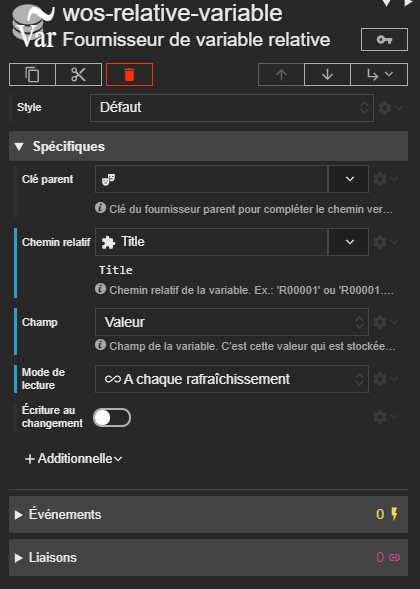
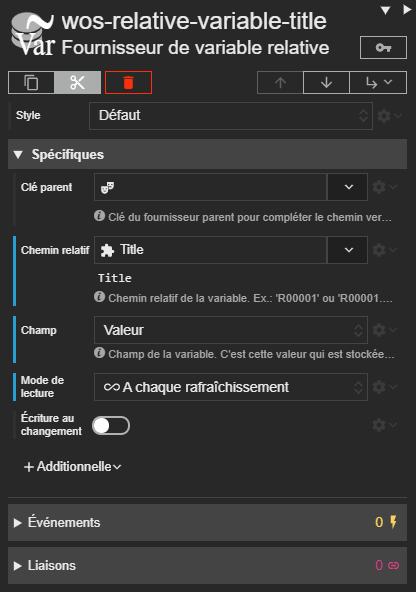
Correction tutoriel composite relatif

diff --git a/tutorials/composite-wos-relative.md b/tutorials/composite-wos-relative.md
@@ -3,64 +3,85 @@ title: "Composite avec son propre fournisseur relatif"
 parent: Tutoriels
 ---
 
-Ce tutoriel présente une scène qui inclue un [fournisseur de ressource](../concepts/actor-types/redy-resource-source.md) et un composite comportant le titre d'une ressource récupérée via un [fournisseur de variable relative](../concepts/actor-types/redy-wos-relative-variable-source.md).
+Nous verrons au cours de ce tutoriel comment fournir un acteur fournisseur de ressource à un acteur fournisseur de variable relative contenu dans un composite à l'aide du [contexte de donnée](../concepts/context.md).<br>
+Il est à noter que l'utilisation du contexte de donnée n'est qu'une des méthodes possibles pour parvenir à renseigner dynamiquement un acteur fournisseur de variable relative.
 
-Pour ce tutoriel, la scène comprend un fournisseur de ressource et le composite un fournisseur de variable relative qui se base sur le fournisseur de ressource de la scène.
+Les acteurs fournisseurs de variables relatives peuvent de cette façon être regroupés afin de rassembler les différentes requêtes.<br>
+Cette pratique permet également de renseigner à l'acteur fournisseur de variable relative une clé parent dynamiquement.
 
-Cela permet à des composites de bénéficier dynamiquement de fournisseur parents à l'aide du [contexte de donnée](../concepts/context.md).<br>
+Dans ce tutoriel, nous afficherons une scène qui comporte un composite et un acteur fournisseur de ressource.<br>
+Le composite utilise via son contexte de donnée l'acteur fournisseur de ressource de la scène afin d'alimenter ses propres fournisseurs de variables relatives.
 
 # Étape 1 : Le composite
 
-Le composite contient un acteur texte qui présente le titre de la ressource ainsi qu'un acteur fournisseur de variable relative qui sert à alimenter le contenu de mon acteur texte.
+Ci-dessous le composite fonctionnel utilisé pour ce tutoriel, plus de détails sur la création de celui-ci se trouvent dans la section *Détails du composite* ci-dessous.
 
-![SynApps]( {{ site.baseurl }}/assets/tutorials/composite-relative/tuto-composite9.PNG)<br>
+>{% raw %}
+>``` text
+>SYNAPPS-STUDIO-COMPOSITE|{"config":{"key":"composite-relative","name":"Composite fournisseur relatif"},"leadActor":{"type":"layout/stack","key":"stack-root-composite","children":[{"type":"redy/data-source/wos-relative-variable","key":"wos-relative-variable-title","properties":{"dataReadMode":"always","relativePath":"Title","fieldName":"value"}},{"type":"display/text","key":"my-first-text","properties":{"horizontalAlignment":"middle","content":"MON TEXTE"},"bindings":{"properties.content":"actor#wos-relative-variable-title@data"}},{"type":"redy/data-source/wos-relative-variable","key":"wos-relative-variable-class","properties":{"dataReadMode":"always","relativePath":"PTClass","fieldName":"value"}},{"type":"display/text","key":"my-second-text","properties":{"horizontalAlignment":"middle","content":"MON TEXTE"},"bindings":{"properties.content":"actor#wos-relative-variable-class@data"}}]}}
+>```
+>{% endraw %}
 <br>
-L'acteur fournisseur de variable relative ne possède pas de clé parent (nous verrons pourquoi à l'étape 4), il possède cependant un chemin relatif et un champ.<br>
-Dans notre cas, nous souhaitons simplement afficher le titre de la ressource.<br>
-Le chemin relatif est donc *Title* et le champ *Valeur*.<br>
-![SynApps]( {{ site.baseurl }}/assets/tutorials/composite-relative/tuto-composite2.PNG)
 
-# Étape 2 : La liaison à l'acteur texte
+## Details du composite
 
-Pour récupérer le titre de la ressource, il faut effectuer une liaison sur le contenu de l'acteur texte vers le fournisseur de variable relative.<br>
-![SynApps]( {{ site.baseurl }}/assets/tutorials/composite-relative/link-text.gif)<br>
+Le composite utilisé contient deux acteurs fournisseurs de variable relative et deux acteurs textes.<br>
 
-# Étape 3 : La scène
+![SynApps]( {{ site.baseurl }}/assets/tutorials/composite-relative/tuto-composite1.PNG)<br>
+
+### <b> Details des acteurs fournisseurs de variable relative </b>
+
+Les deux acteurs fournisseurs de variable relative ne possèdent pas de clé parent, nous allons utiliser le contexte de donnée afin de leur fournir un parent.
+Ceux-ci possèdent cependant un chemin relatif et un champ.
+<br>
+>📌 **REMARQUE**<br>
+>Le contexte de donnée peut être utilisé en ruissellement, nous pouvons ainsi fournir au composite un acteur fournisseur de ressource et celui-ci ruissèlera cet acteur vers tous ses enfants.<br><br>
+>Dans notre cas, les acteurs fournisseurs de variables relatives détecteront automatiquement la présence d'un acteur fournisseur de ressource dans leurs contexte de donnée et l'utiliseront comme clé parent.
+
+
+![SynApps]( {{ site.baseurl }}/assets/tutorials/composite-relative/tuto-composite6.PNG)<br>
+Fournisseur de variable relative chargé de récupérer le titre de la ressource
+
+![SynApps]( {{ site.baseurl }}/assets/tutorials/composite-relative/tuto-composite5.PNG)<br>
+Fournisseur de variable relative chargé de récupérer la classe de la ressource
+
+### <b>Details de l'acteur texte</b>
+
+![SynApps]( {{ site.baseurl }}/assets/tutorials/composite-relative/tuto-composite10.PNG)
+
+La seule particularité des acteurs textes de ce composite réside dans la liaison de leurs contenus vers la donnée de l'un des acteur fournisseur de variable relative, ce qui permet de récupérer la variable souhaitée dynamiquement.
+
+# Étape 2 : La scène
 
 La scène présente un acteur fournisseur de ressource ainsi qu'une instance du composite que nous avons créé précédemment.<br>
 ![SynApps]( {{ site.baseurl }}/assets/tutorials/composite-relative/tuto-composite8.PNG)<br>
 
-Le fournisseur de ressource de la scène va chercher une ressource présente sur le REDY peut importe la ressource.<br>
+Le fournisseur de ressource de la scène va chercher une des ressources présente sur le REDY.<br>
 ![SynApps]( {{ site.baseurl }}/assets/tutorials/composite-relative/tuto-composite3.PNG)<br>
 
-Cette scène présente donc un acteur fournisseur de ressource ainsi qu'un composite.
+Via son contexte de donnée, le composite va renseigner l'acteur fournisseur de ressource à ses acteurs relatifs comme vu dans les détails de l'étape 1.
 
-# Étape 4 : La liaison du contexte
+>![SynApps]( {{ site.baseurl }}/assets/tutorials/composite-relative/link-context.gif)<br>
+>Liaison du contexte de donnée.
 
-Comme expliqué en <b>Étape 1</b>, la clé parent du fournisseur de variable relative a été laissée vide et cela pour permettre de renseigner dynamiquement un acteur parent.<br>
-Pour se faire, nous allons utiliser le contexte de donnée du composite.<br>
-En effet, lorsque qu'un fournisseur de variable relative ne possède pas de clé parent, celui-ci va automatiquement chercher un acteur fournisseur de ressource / variable.
-
-Dans notre exemple, il suffit donc de lier le contexte de donnée du composite à l'acteur fournisseur dans la scène.<br>
-![SynApps]( {{ site.baseurl }}/assets/tutorials/composite-relative/link-context.gif)<br>
-
-A l'issue de cette étape, vous nous avons :
-
-- la liste des acteurs de la scène :<br>
-![SynApps]( {{ site.baseurl }}/assets/tutorials/composite-relative/tuto-composite4.PNG)<br>
-> Notons la liaison sur l'acteur 'composite-relative' qui traduit la liaison vers l'acteur 'resource' sur le contexte de donnée.
-
-- la liste des acteurs du composite :<br>
-![SynApps]( {{ site.baseurl }}/assets/tutorials/composite-relative/tuto-composite1.PNG)<br>
-> Notons la liaison sur l'acteur 'my-text' qui représente la liaison pour aller chercher le titre de la ressource.
+A l'issue de cette étape, notre scène devrait afficher le titre et la classe de la ressource récupérée par notre fournisseur de ressource.<br>
+>![SynApps]( {{ site.baseurl }}/assets/tutorials/composite-relative/tuto-composite11.PNG)<br>
+> Exemple d'une scène affichant le titre et la classe d'une ressource.
 
 # Conclusion
 
-Nous avons appris à fournir un acteur fournisseur de ressource à un composite via son contexte de donnée.<br>
-Cela permet donc d'alléger les scènes et de factoriser l'utilisation des fournisseurs relatifs au sein des composites.
+A l'issue de ce tutoriel, nous devrions avoir :
+
+- Une scène composée d'un acteur fournisseur de ressource et d'un composite :<br>
+![SynApps]( {{ site.baseurl }}/assets/tutorials/composite-relative/tuto-composite4.PNG)<br>
+
+- Un composite composé de deux acteurs fournisseurs de variables relatives et de deux acteurs textes :<br>
+![SynApps]( {{ site.baseurl }}/assets/tutorials/composite-relative/tuto-composite1.PNG)<br>
+
+Au cours de ce tutoriel, nous avons appris à fournir à un composite un certain contexte de donnée et à valoriser ce contexte de donnée pour l'utilisation d'acteurs fournisseurs de variables relatives.<br>
 
 > 📌 **REMARQUE**<br>
-Il est tout à fait possible, d'agir sur la variable récupérée tout comme si le fournisseur de variable relative était dans la scène ( écriture, tranformation, etc...).
+Il est tout à fait possible, d'agir sur la variable récupérée (écriture, transformation, etc ...) par le fournisseur de variable relative.
 
 # Scène et composite du tutoriel
 
@@ -68,7 +89,7 @@ Vous pouvez copier/coller le composite réalisé dans ce tutoriel.
 
 >{% raw %}
 >``` text
->SYNAPPS-STUDIO-COMPOSITE|{"config":{"key":"composite-relative","name":"Composite fournisseur relatif"},"leadActor":{"type":"layout/stack","key":"stack-root-composite","children":[{"type":"redy/data-source/wos-relative-variable","key":"wos-relative-variable","properties":{"dataReadMode":"always","relativePath":"Title","fieldName":"value"}},{"type":"display/text","key":"my-text","properties":{"horizontalAlignment":"middle","content":"MON TEXTE"},"bindings":{"properties.content":"actor#wos-relative-variable@data"}}]}}
+>SYNAPPS-STUDIO-COMPOSITE|{"config":{"key":"composite-relative","name":"Composite fournisseur relatif"},"leadActor":{"type":"layout/stack","key":"stack-root-composite","children":[{"type":"redy/data-source/wos-relative-variable","key":"wos-relative-variable-title","properties":{"dataReadMode":"always","relativePath":"Title","fieldName":"value"}},{"type":"display/text","key":"my-first-text","properties":{"horizontalAlignment":"middle","content":"MON TEXTE"},"bindings":{"properties.content":"actor#wos-relative-variable-title@data"}},{"type":"redy/data-source/wos-relative-variable","key":"wos-relative-variable-class","properties":{"dataReadMode":"always","relativePath":"PTClass","fieldName":"value"}},{"type":"display/text","key":"my-second-text","properties":{"horizontalAlignment":"middle","content":"MON TEXTE"},"bindings":{"properties.content":"actor#wos-relative-variable-class@data"}}]}}
 >```
 >{% endraw %}
 
@@ -76,6 +97,6 @@ Vous pouvez copier/coller la scène réalisée dans ce tutoriel.
 
 >{% raw %}
 >``` text
->SYNAPPS-STUDIO-SCENE|{"config":{"key":"scene1","name":"Scène 1"},"leadActor":{"type":"layout/stack","key":"stack_root","properties":{"verticalAlignment":"expand"},"children":[{"type":"redy/data-source/resource","key":"resource","properties":{"path":":easy.RESS.OwnerPLUG.PLUG01.DI1"}},{"type":"composite/composite-relative","key":"composite-relative","bindings":{"dataContext":"actor#resource"}}]}}
+>SYNAPPS-STUDIO-SCENE|{"config":{"key":"scene1","name":"Scène 1"},"leadActor":{"type":"layout/stack","key":"stack_root","properties":{"verticalAlignment":"expand"},"children":[{"type":"redy/data-source/resource","key":"resource"},{"type":"composite/composite-relative","key":"composite-relative","bindings":{"dataContext":"actor#resource"}}]}}
 >```
 >{% endraw %}
